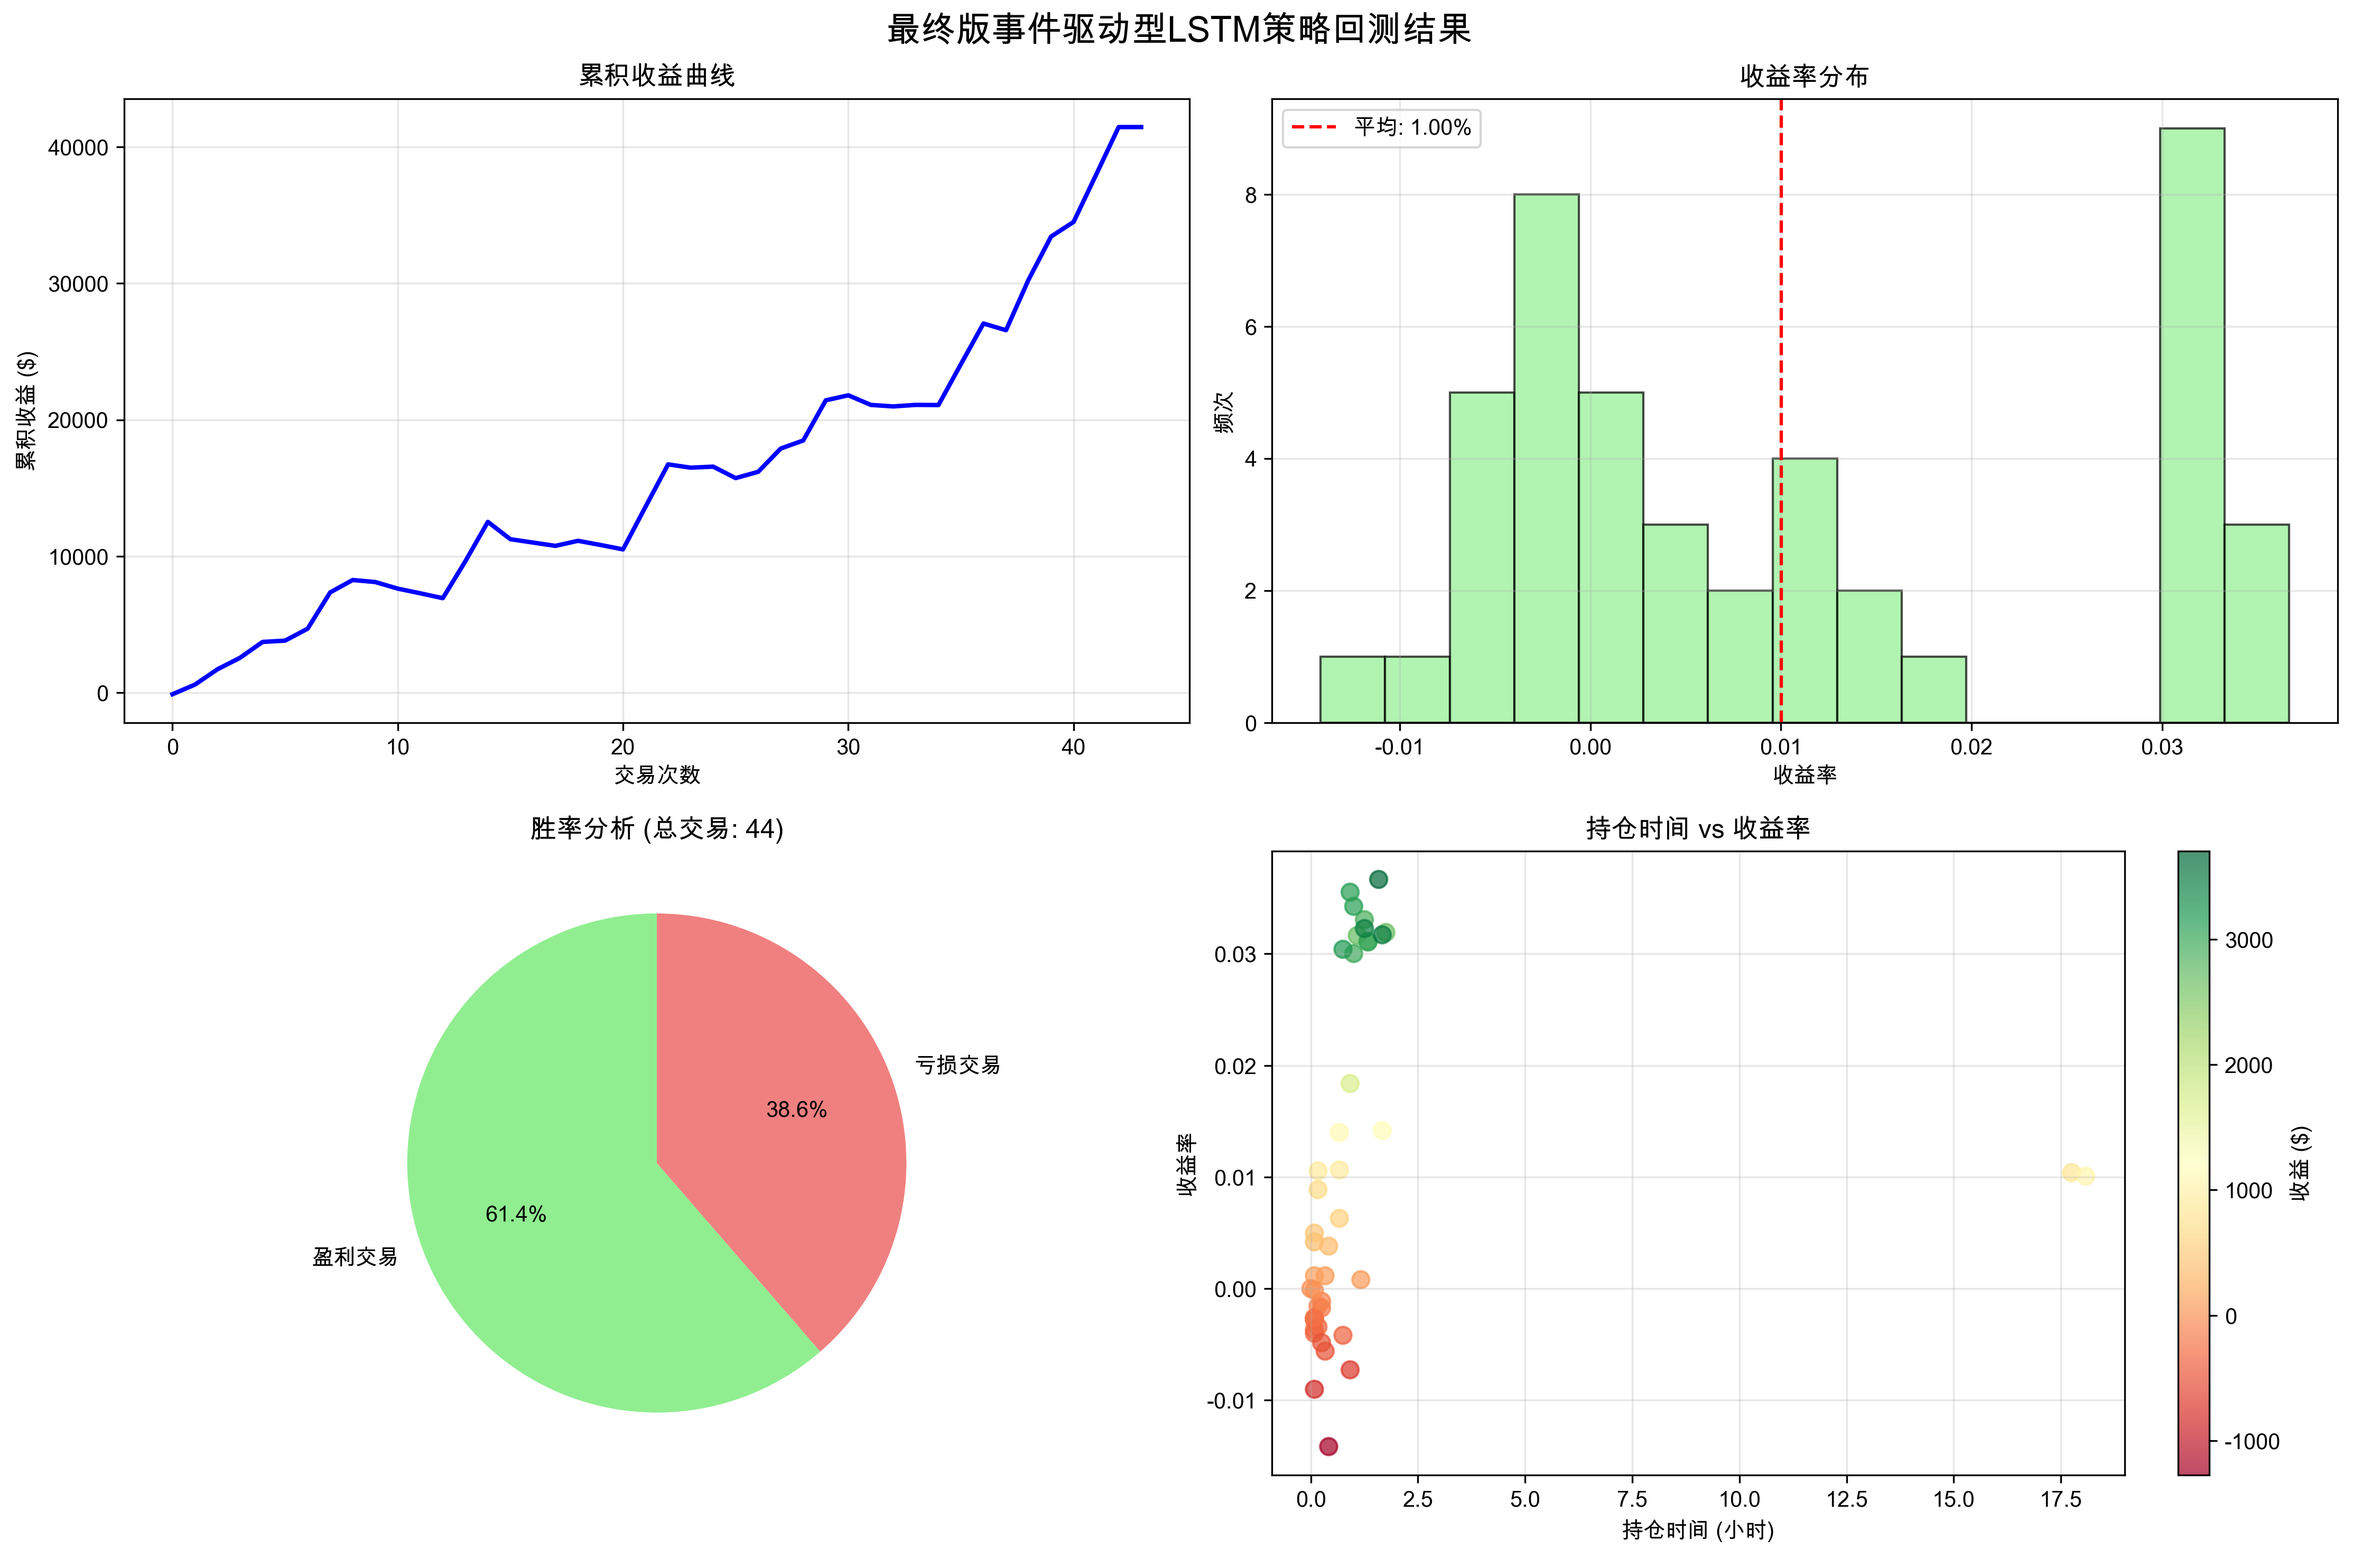
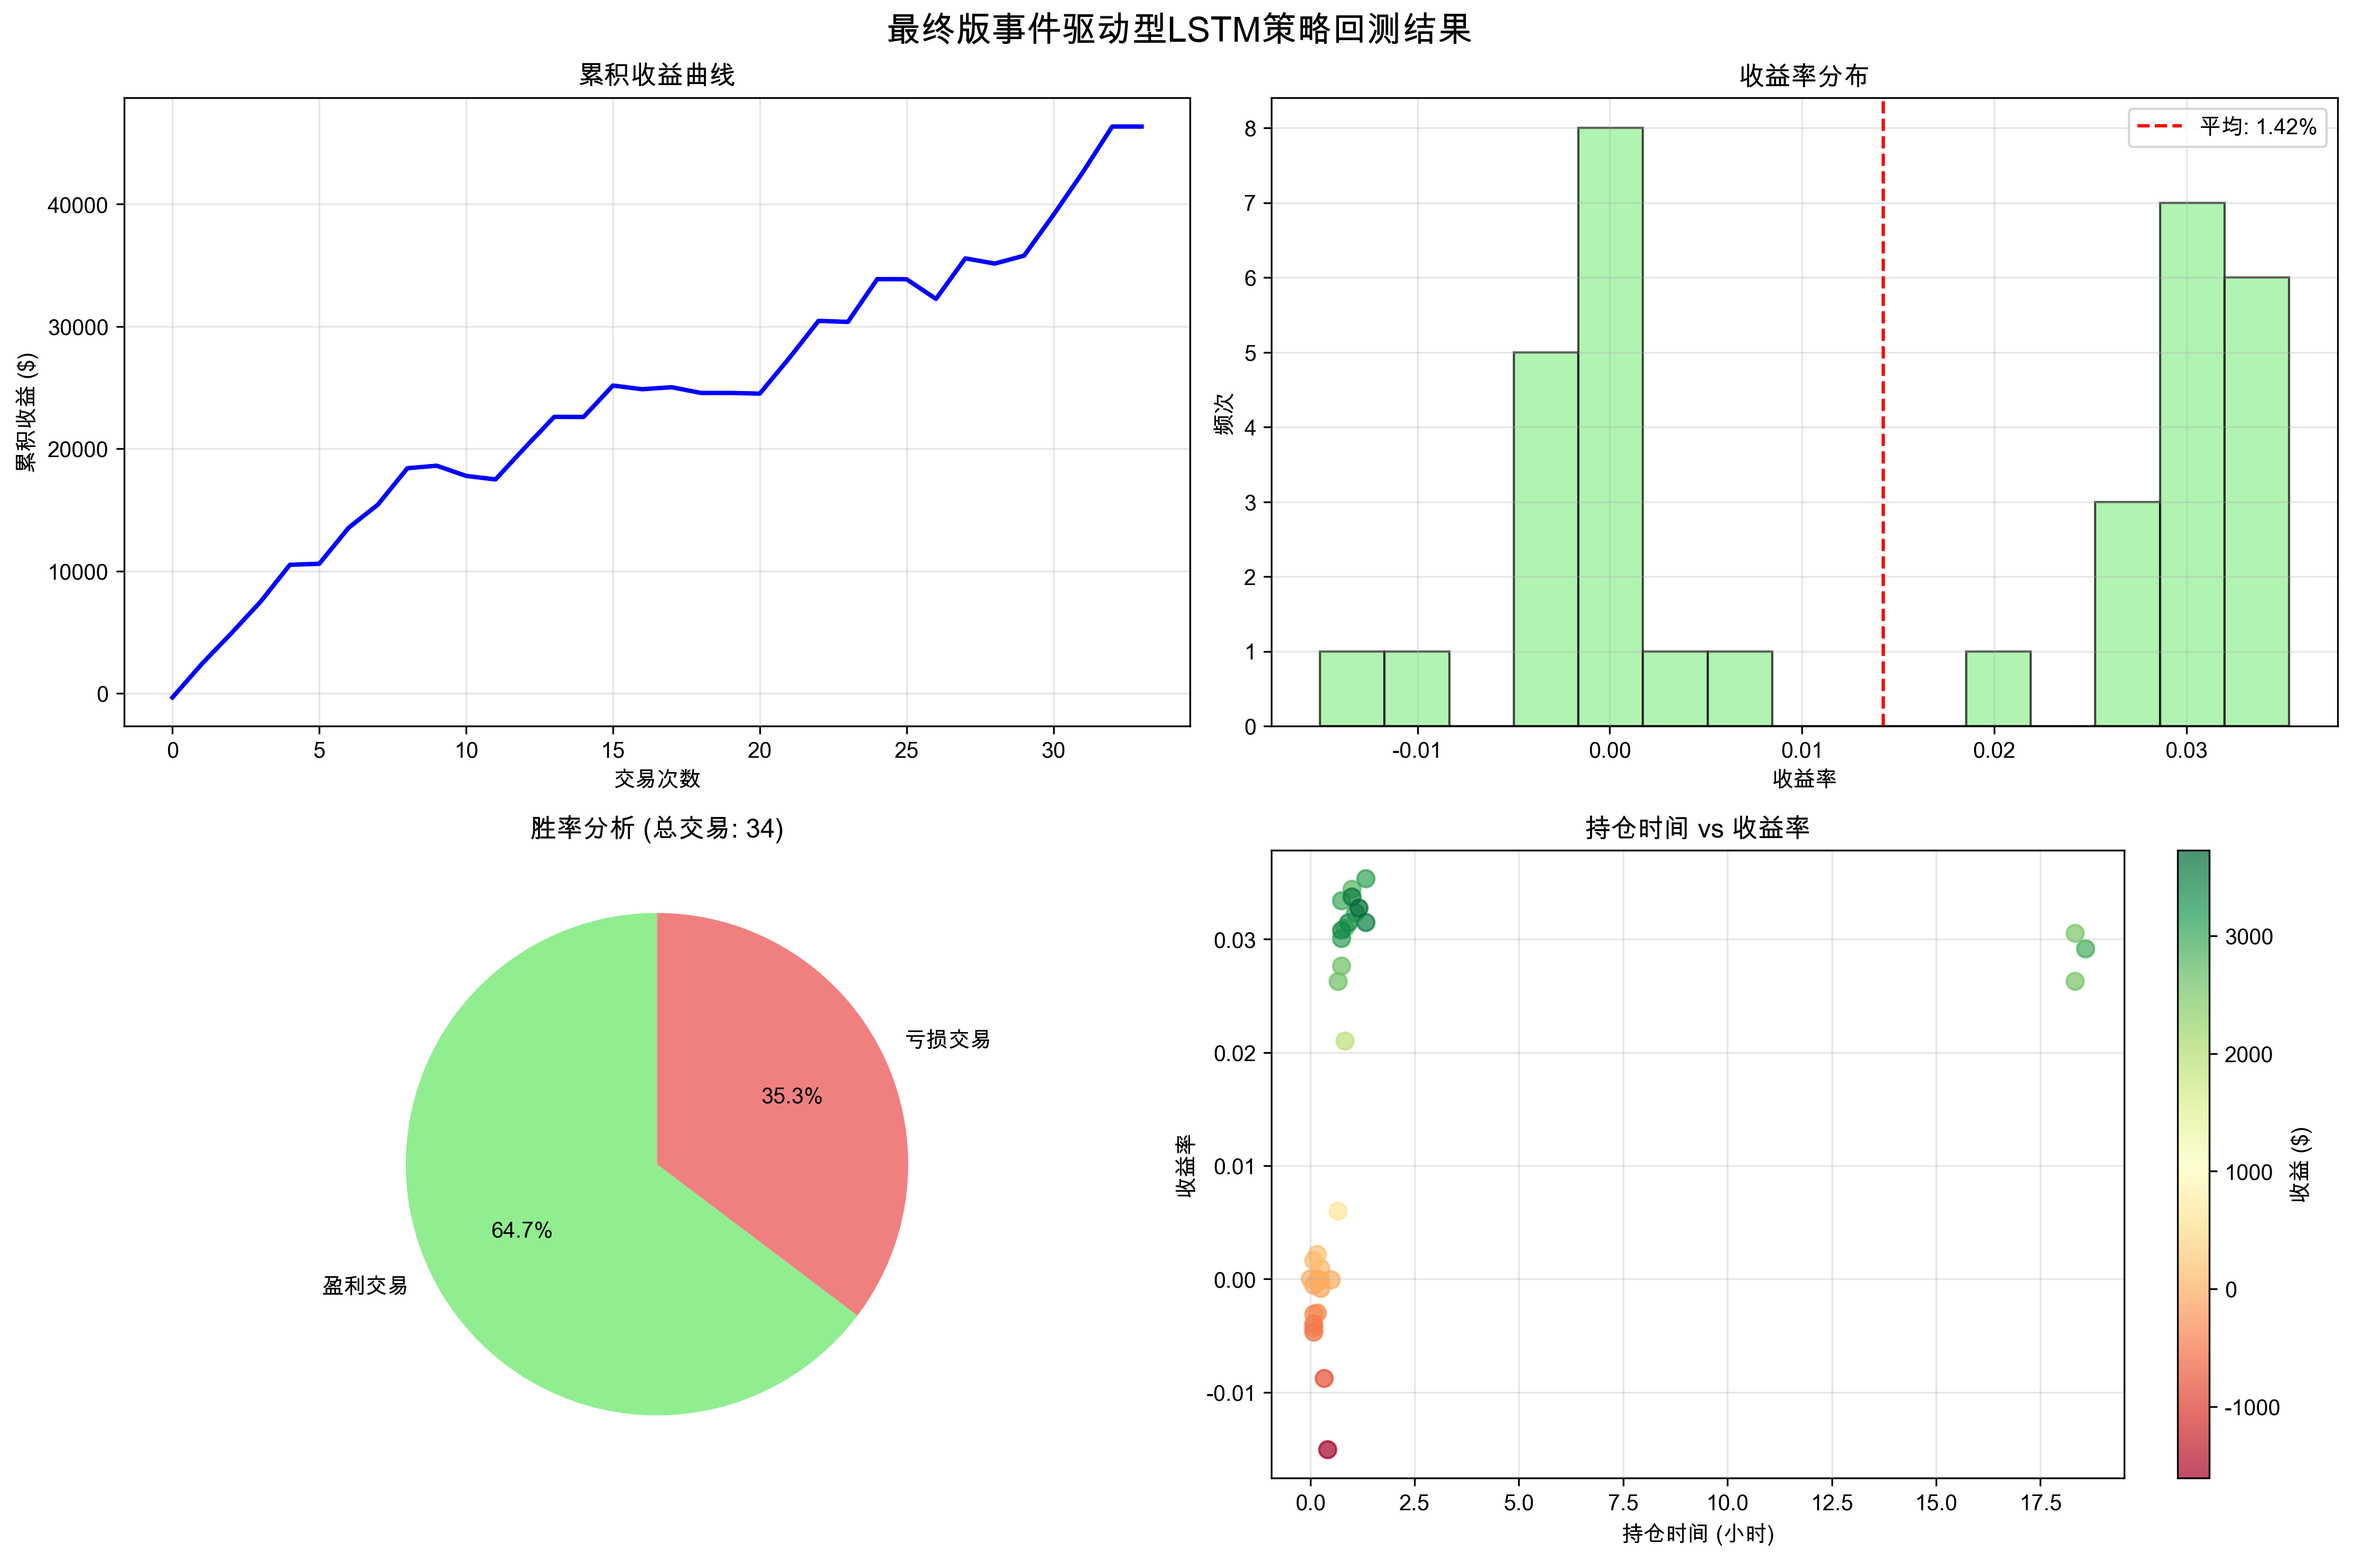
commit

diff --git a/test_str/edl_strategy_final.py b/test_str/edl_strategy_final.py
@@ -57,12 +57,13 @@ class FinalEventDrivenLSTMStrategy:
         self.scaler = None
         self.trades = []
         
-    def get_market_data(self, symbol='SPY'):
+    def get_market_data(self, symbol='PDD'):
         """
         获取市场数据
         """
         try:
             print(f"正在获取 {symbol} 的数据...")
+            yf.set_config("http://127.0.0.1:1087")
             ticker = yf.Ticker(symbol)
             
             end_date = datetime.now()
